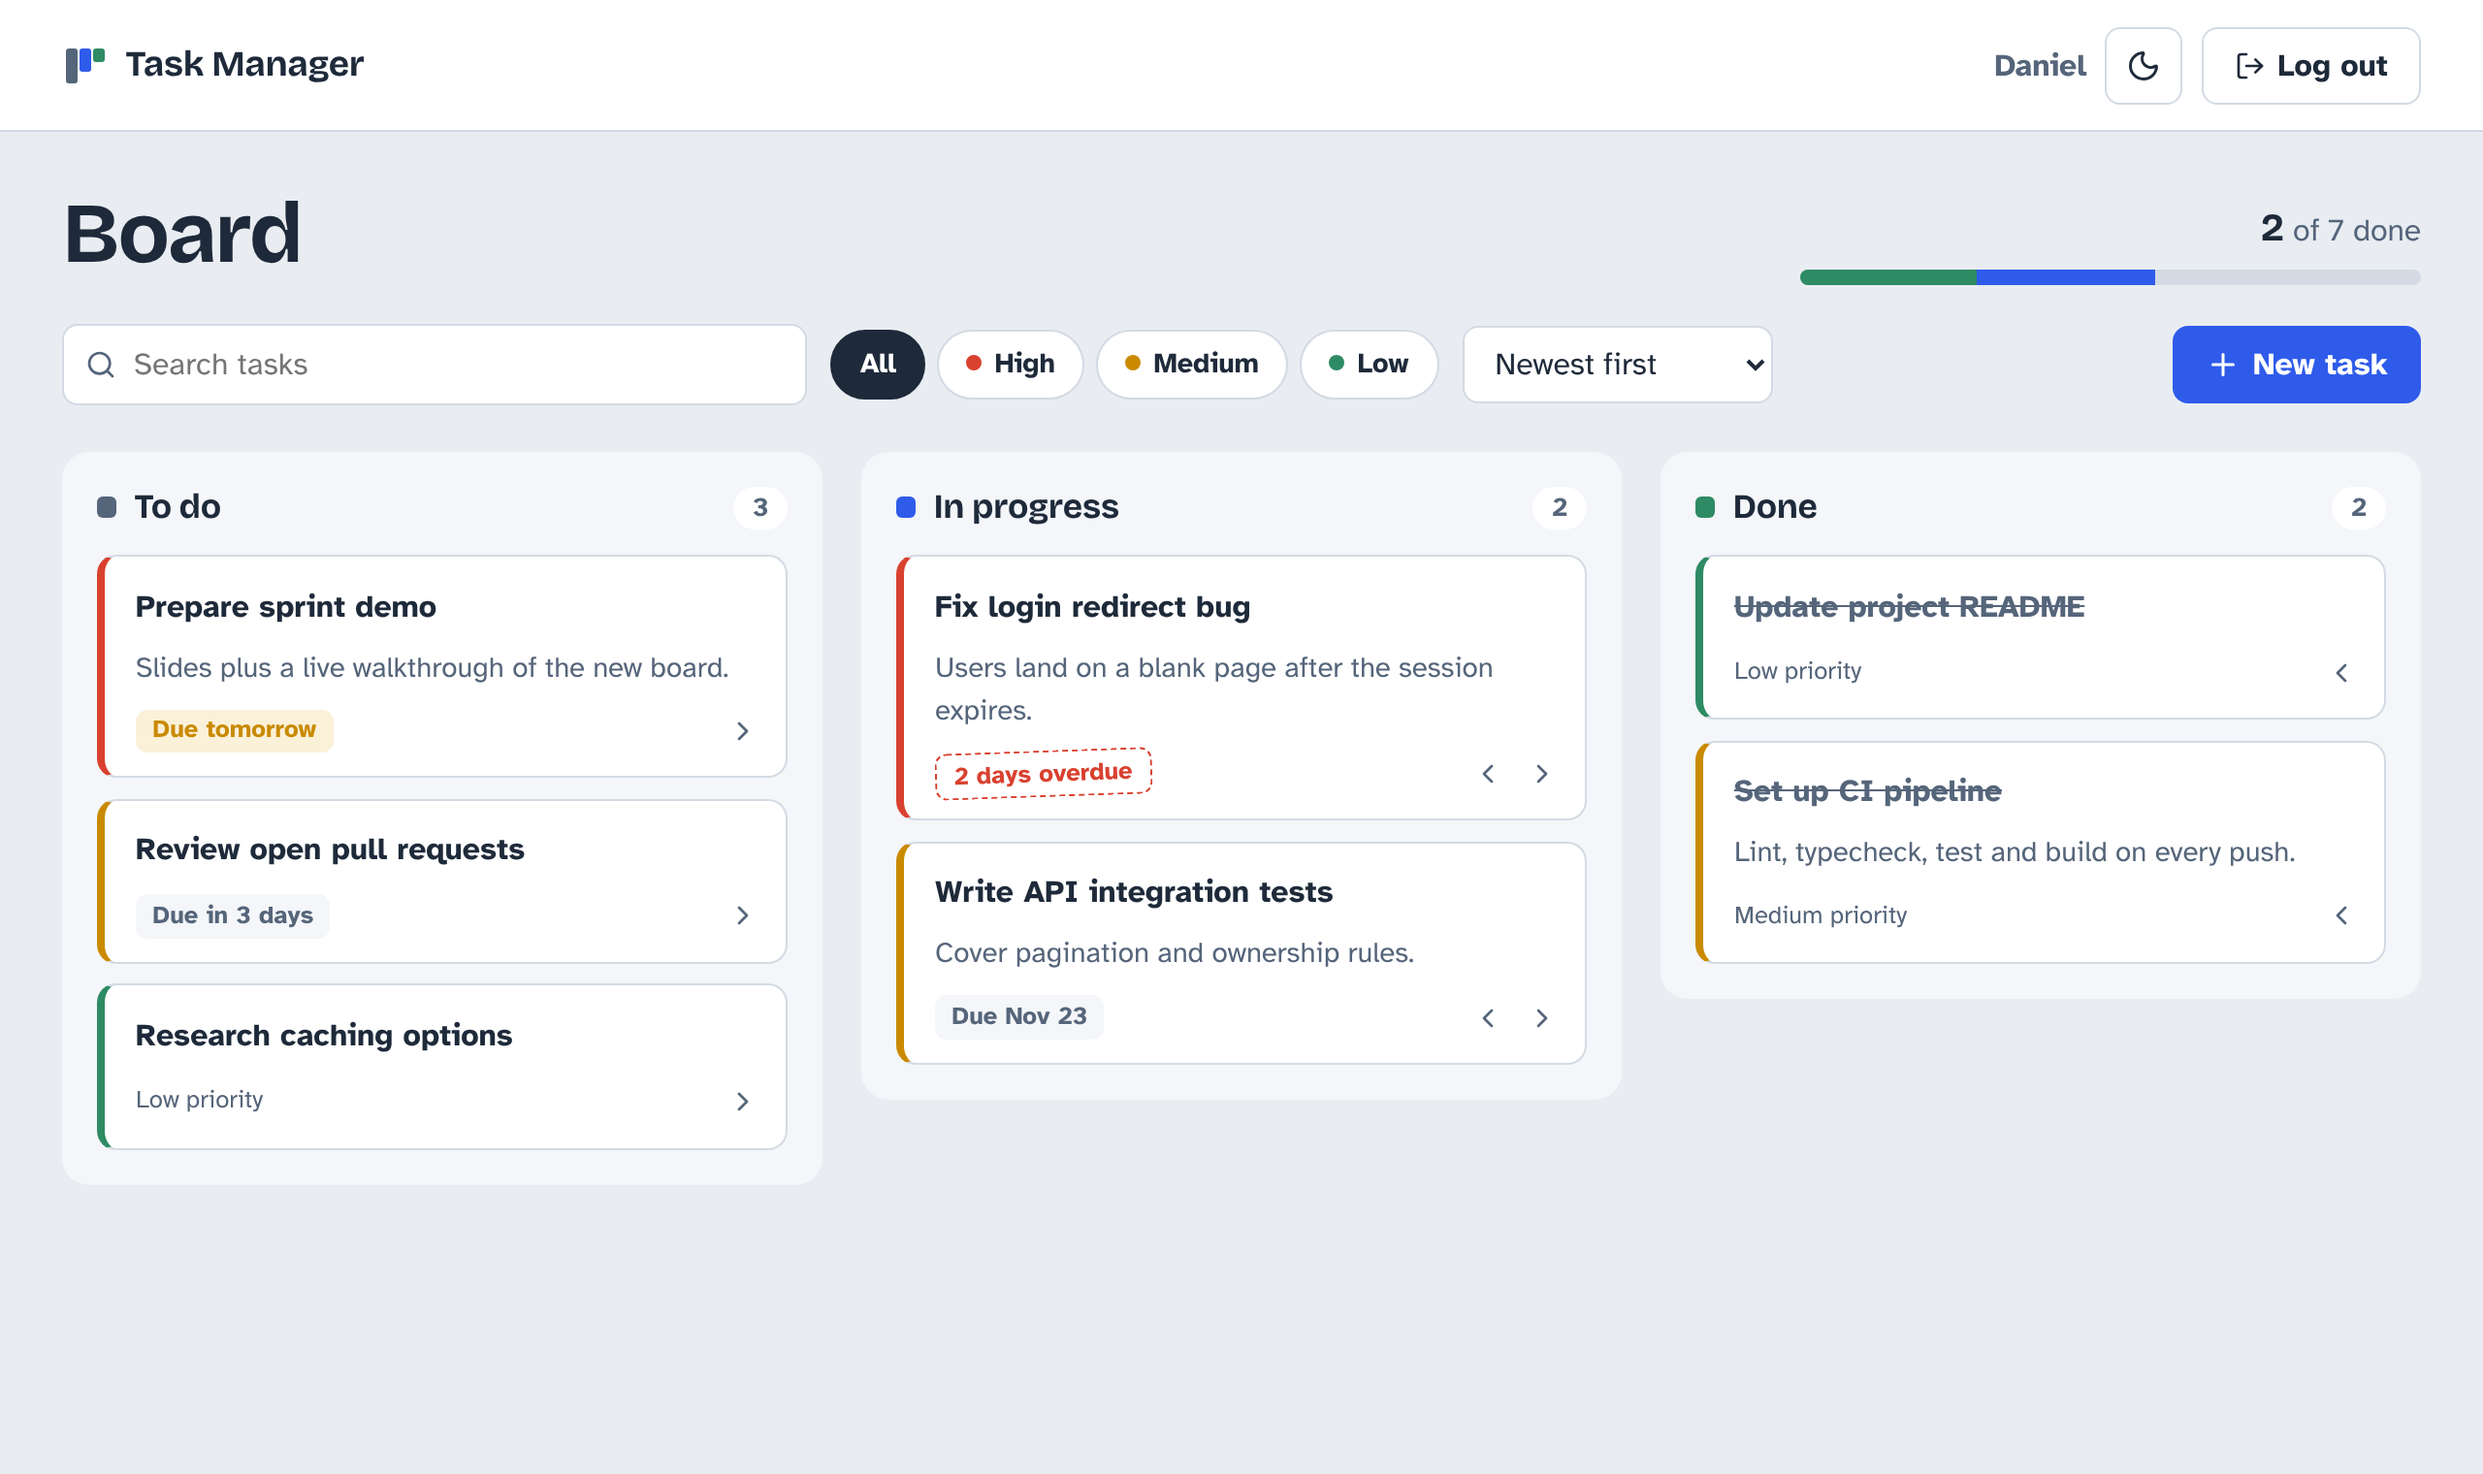
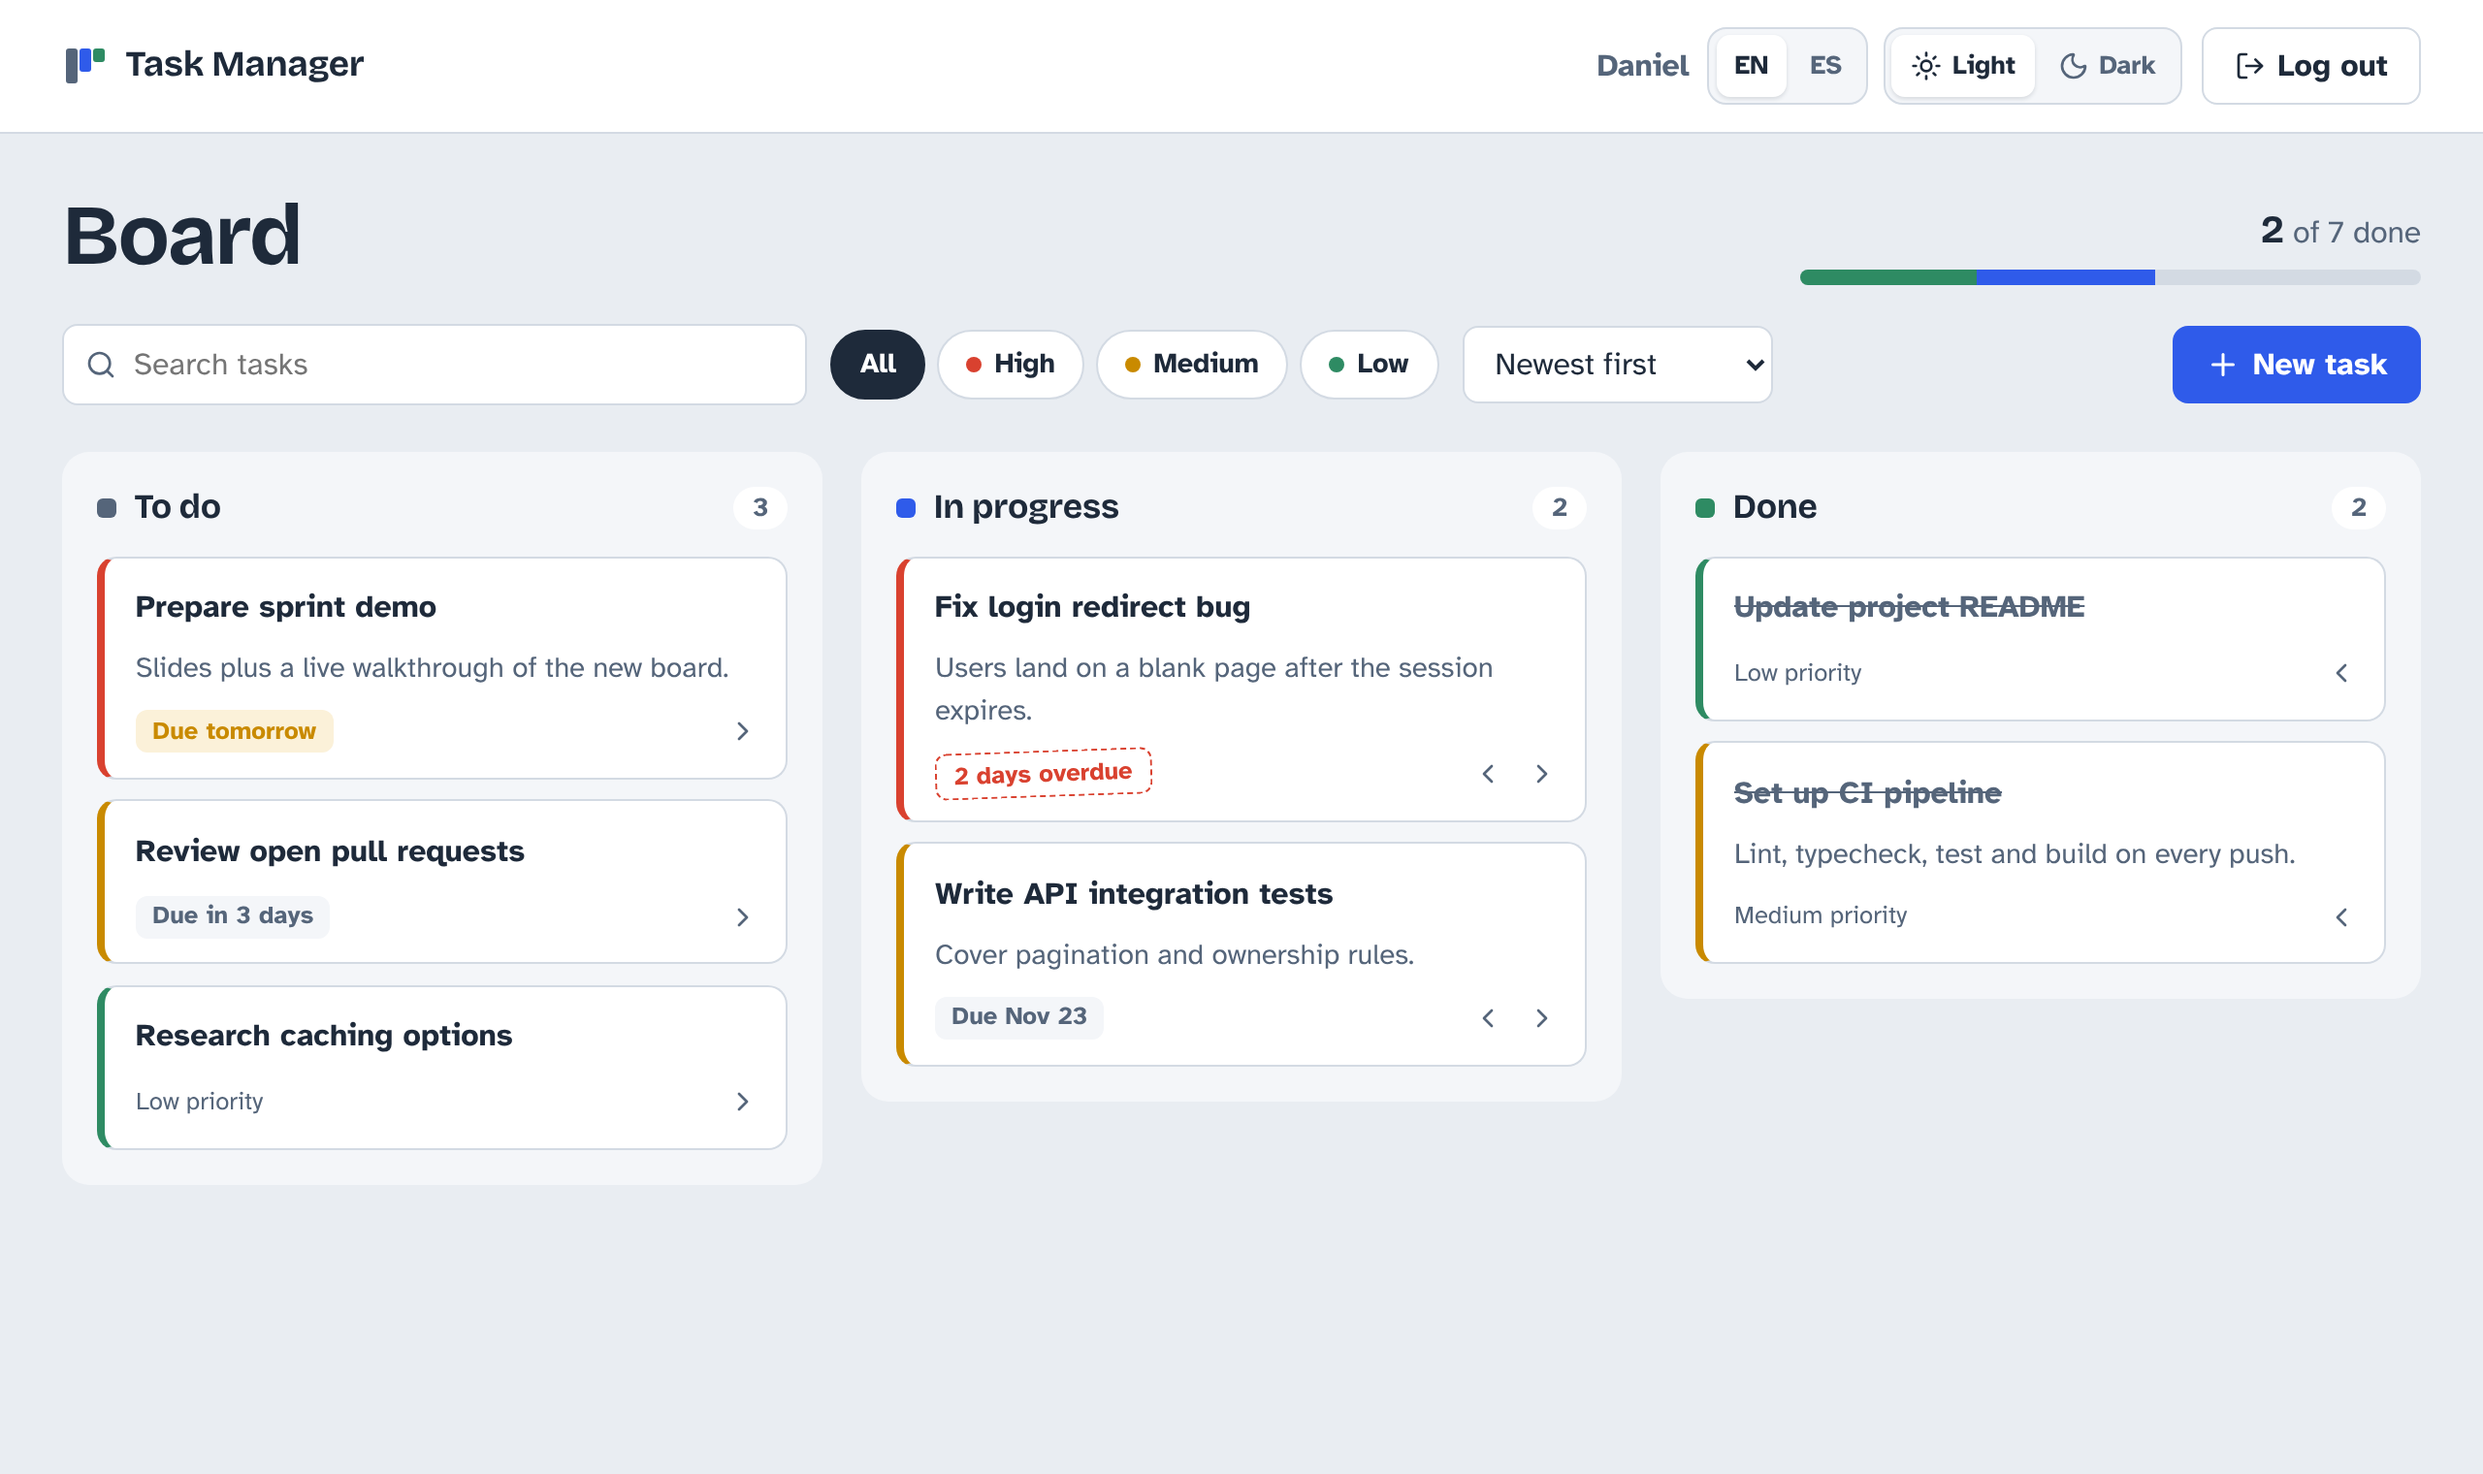
docs: document language and theme support with updated screenshots
Claude-Session: https://claude.ai/code/session_01B5iriLYiFA1h5std5JLvSb

diff --git a/README.md b/README.md
@@ -23,13 +23,14 @@ A Kanban-style task manager built with **React, TypeScript and TanStack Query**.
 - **Create, edit and delete** tasks in an accessible modal dialog, with a two-step delete confirmation.
 - **Authentication** with JWT: register, log in, session kept across reloads and automatic logout when the token expires.
 - **Server validation errors** shown next to the field they belong to.
-- **Light and dark themes**, following the system setting by default.
+- **English and Spanish**: every label, message, date and API error is translated. The first visit follows the browser language, and the choice is remembered.
+- **Light and dark themes** with a visible switch on every screen, following the system setting by default.
 - **Responsive** from 375 px phones to wide screens.
 - **Cold-start notice** when a request takes longer than three seconds.
 
-| Login | Dark theme |
+| Login | Spanish, dark theme |
 |---|---|
-| ![Login page](docs/login.png) | ![Dark theme](docs/board-dark.png) |
+| ![Login page](docs/login.png) | ![Spanish interface in dark theme](docs/board-dark.png) |
 
 ## Tech stack
 
@@ -37,6 +38,7 @@ A Kanban-style task manager built with **React, TypeScript and TanStack Query**.
 |---|---|
 | UI | React 19, TypeScript (strict), plain CSS with design tokens |
 | Data | TanStack Query (caching, optimistic updates), Fetch API |
+| i18n | Lightweight typed dictionaries (English and Spanish), `Intl` date formatting |
 | Routing | React Router |
 | Testing | Vitest, Testing Library |
 | Tooling | Vite, Oxlint, GitHub Actions |
@@ -48,7 +50,9 @@ A Kanban-style task manager built with **React, TypeScript and TanStack Query**.
 src/
 ├── api/          # Typed fetch client, endpoints and API types
 ├── auth/         # Auth context: session storage, login, register, logout
-├── hooks/        # Task queries and mutations, theme, debounce, slow-request detection
+├── hooks/        # Task queries and mutations, debounce, slow-request detection
+├── i18n/         # English and Spanish messages, translator, localized dates and error mapping
+├── preferences/  # Language and theme context, persisted per browser
 ├── components/   # Board columns, task card, dialog, toolbar, header, toasts
 ├── pages/        # Auth page and board page
 └── utils/        # Date formatting, constants and safe localStorage access
@@ -59,6 +63,7 @@ src/
 - **Server state lives in TanStack Query**, not in component state. Filters are part of the query key, so each combination is cached and the board updates without manual refetching.
 - **One small fetch wrapper** adds the token, turns error responses into a typed `ApiError` with field details, and logs the user out on a `401`.
 - **Accessibility first**: semantic landmarks, native `<dialog>`, labelled controls, visible focus, keyboard-friendly alternatives to drag and drop, and reduced motion support.
+- **Typed translations without a library**: the Spanish dictionary must define every English key, so a missing translation fails the build. The API answers in English, so error codes are mapped to messages in the user's language.
 - **No UI framework**: the visual system is a small set of CSS custom properties, which keeps the bundle light and the design consistent across both themes.
 
 ## Getting started
@@ -82,7 +87,7 @@ Without a `.env` file, the app uses the deployed API.
 
 ## Testing
 
-Tests cover the date logic, the task card interactions and the login and registration flows, including how API validation errors are displayed.
+Tests cover translations and date formatting in both languages, the task card interactions, the language and theme switches, and the login and registration flows, including how API validation errors are displayed.
 
 ```bash
 npm test
